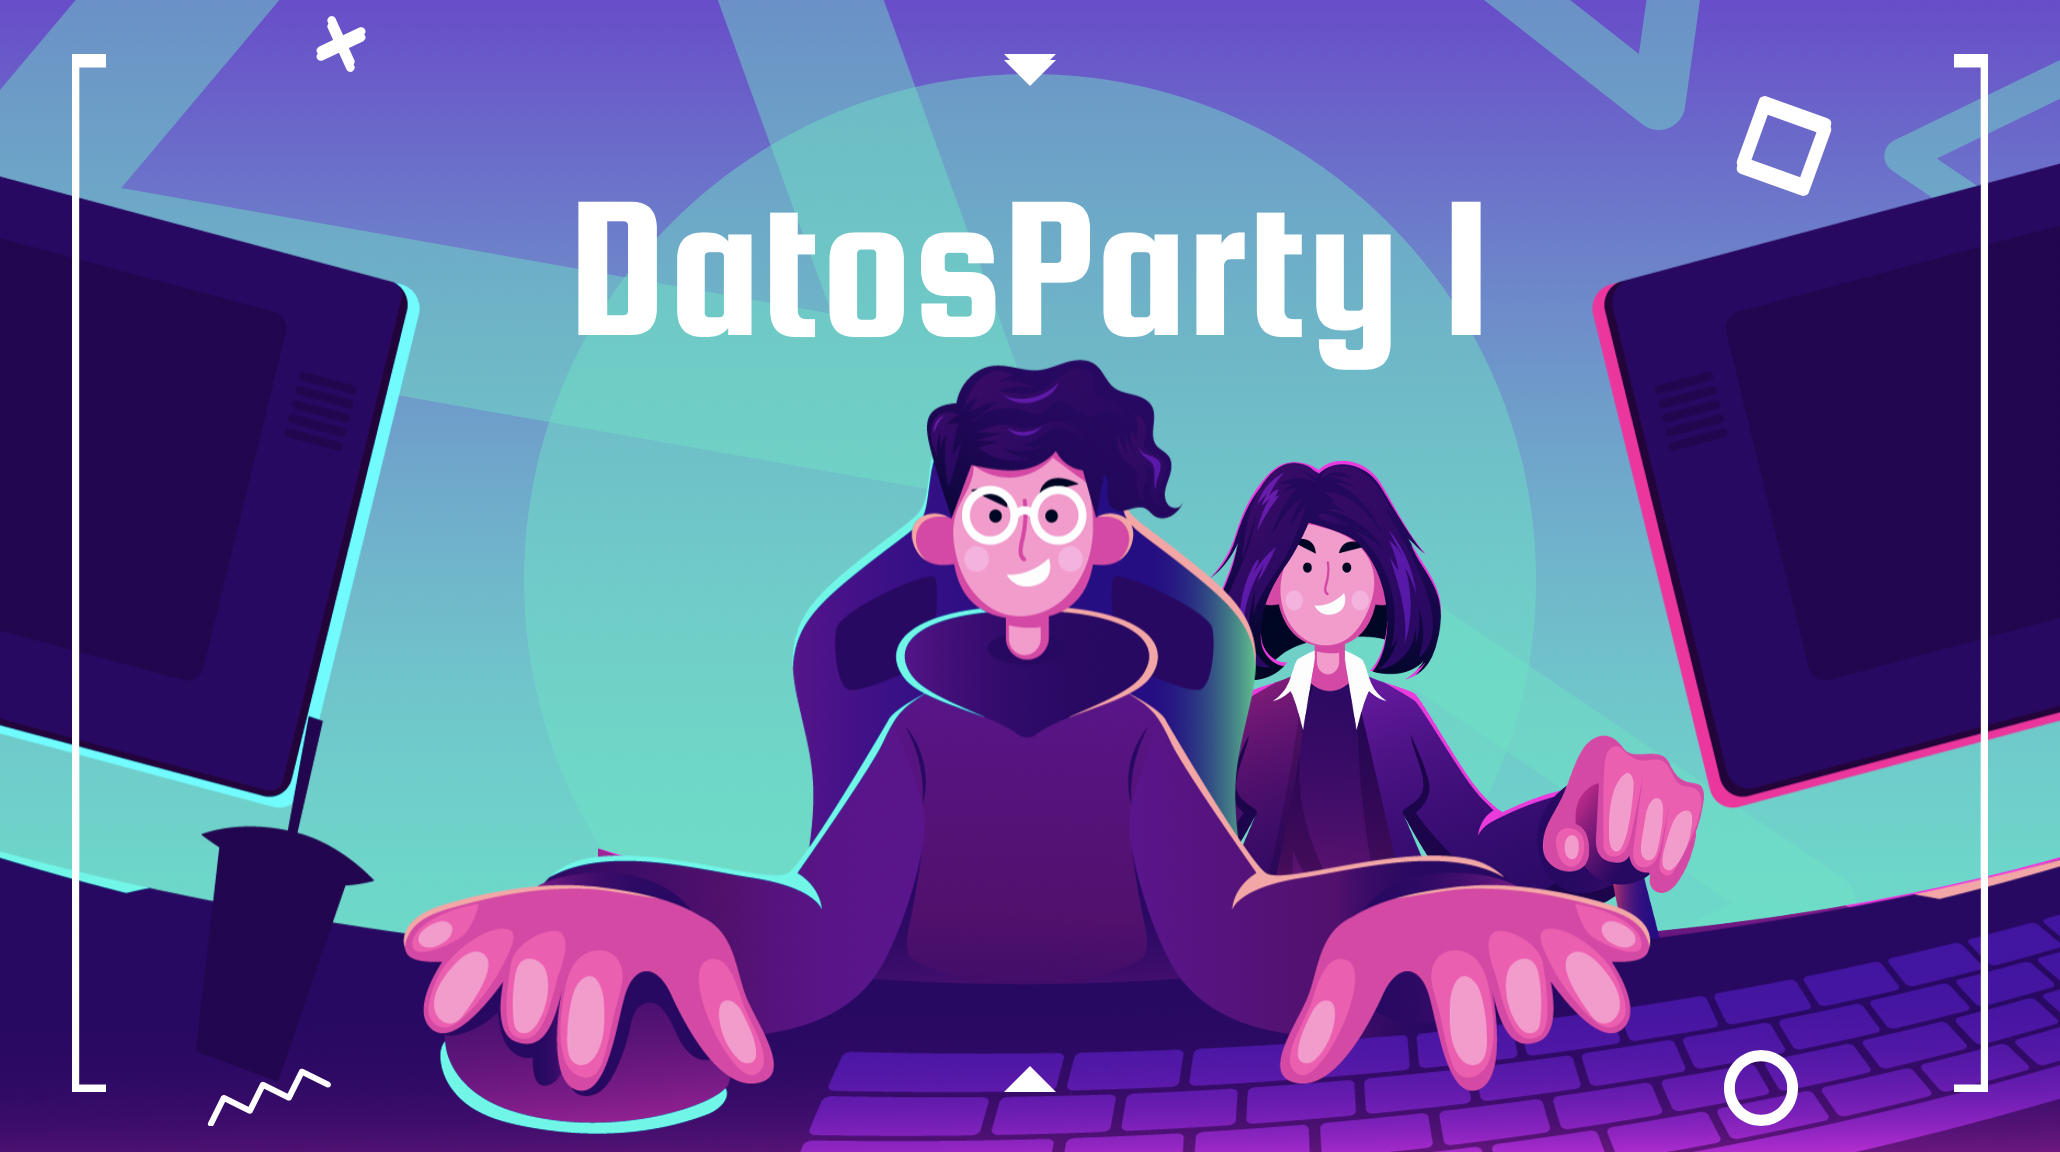
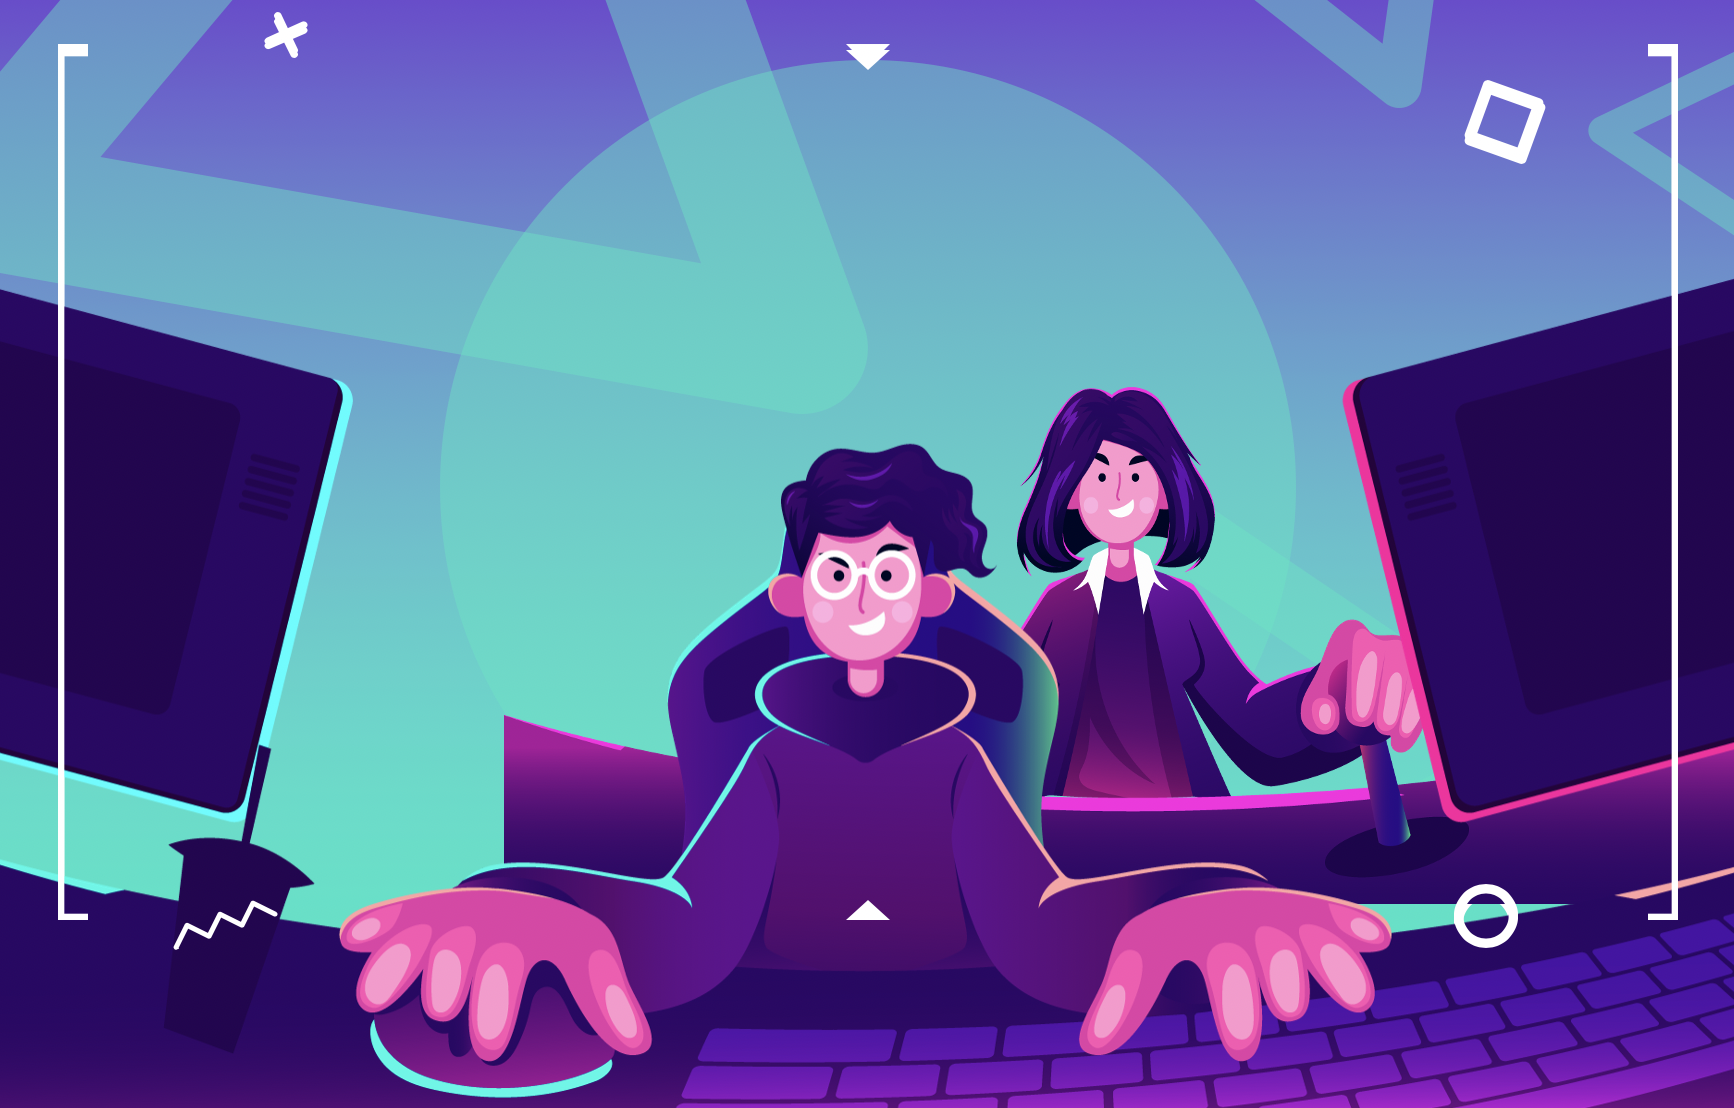
Design a window to choose players

diff --git a/Datos Party 1/src/com/Datos1/Proyecto1/Start/StartBoard.java b/Datos Party 1/src/com/Datos1/Proyecto1/Start/StartBoard.java
@@ -9,12 +9,23 @@ import java.io.IOException;
 
 public class StartBoard extends JPanel {
 
-    private boolean cover = true, instructions, mainWindow;
-    private BufferedImage coverBackground;
+    private boolean instructions, mainWindow, setPlayers;
+    private int counter;
+    private int nameWidth, nameHeight;
+    private BufferedImage coverBackground, gameName, playersWindow;
 
     public StartBoard() throws IOException {
 
         coverBackground = ImageIO.read(new File("images/coverBackground.png"));
+        gameName = ImageIO.read(new File("images/gameName.png"));
+        playersWindow = ImageIO.read(new File("images/PlayersCover.png"));
+
+        counter = 0;
+        nameWidth = 540;
+        nameHeight = 0;
+        setPlayers = false;
+
+
 
     }
 
@@ -22,8 +33,48 @@ public class StartBoard extends JPanel {
     protected void paintComponent(Graphics g) {
         super.paintComponent(g);
 
-        g.drawImage(coverBackground,0,0,1400,800,this);
+        Graphics2D g2 = (Graphics2D)g;
 
+        // Paints the elements for the game cover
+        if (counter<=1000){
+            g2.drawImage(coverBackground,0,0,1400,800,this);
+            int finalNameHeight = gameName.getHeight();
 
+            if(nameHeight<=finalNameHeight){
+                g2.drawImage(gameName,StartWindow.width/2-nameWidth/2,StartWindow.height/4-nameHeight/2,nameWidth,nameHeight,this);
+                nameWidth++;
+                nameHeight++;
+            }
+            else{
+                g2.drawImage(gameName,StartWindow.width/2-nameWidth/2,StartWindow.height/4-nameHeight/2,nameWidth,nameHeight,this);
+            }
+            counter++;
+
+            if (counter == 1000){
+                setPlayers = true;
+            }
+        }
+
+        if (setPlayers){
+            g2.drawImage(playersWindow,0,0,StartWindow.width, StartWindow.height,this);
+
+            g2.setColor(new Color(171, 225, 223));
+            g2.fillRoundRect(StartWindow.width/5 - 50, StartWindow.height/3,100,100,20,20);
+            g2.setColor(new Color(205, 220, 57));
+            g2.fillRoundRect(2*StartWindow.width/5 - 50, StartWindow.height/3,100,100,20,20);
+            g2.setColor(new Color(173, 20, 87));
+            g2.fillRoundRect(3*StartWindow.width/5 - 50, StartWindow.height/3,100,100,20,20);
+            g2.setColor(new Color(255, 160, 0));
+            g2.fillRoundRect(4*StartWindow.width/5 - 50, StartWindow.height/3,100,100,20,20);
+
+            g2.setColor(Color.WHITE);
+            g2.setFont(new Font("Lao Sangam LM", Font.BOLD,50));
+            g2.drawString("1", StartWindow.width/5-15,StartWindow.height/3+70);
+            g2.drawString("2", 2*StartWindow.width/5-15,StartWindow.height/3+70);
+            g2.drawString("3", 3*StartWindow.width/5-15,StartWindow.height/3+70);
+            g2.drawString("4", 4*StartWindow.width/5-15,StartWindow.height/3+70);
+        }
+        
     }
+
 }

diff --git a/Datos Party 1/src/com/Datos1/Proyecto1/Start/StartWindow.java b/Datos Party 1/src/com/Datos1/Proyecto1/Start/StartWindow.java
@@ -5,7 +5,7 @@ import java.io.IOException;
 
 public class StartWindow extends JFrame {
 
-    private static final int width = 1400, height = 800;
+    protected static final int width = 1400, height = 800;
 
     private StartThread startThread;
     private StartBoard startBoard;
